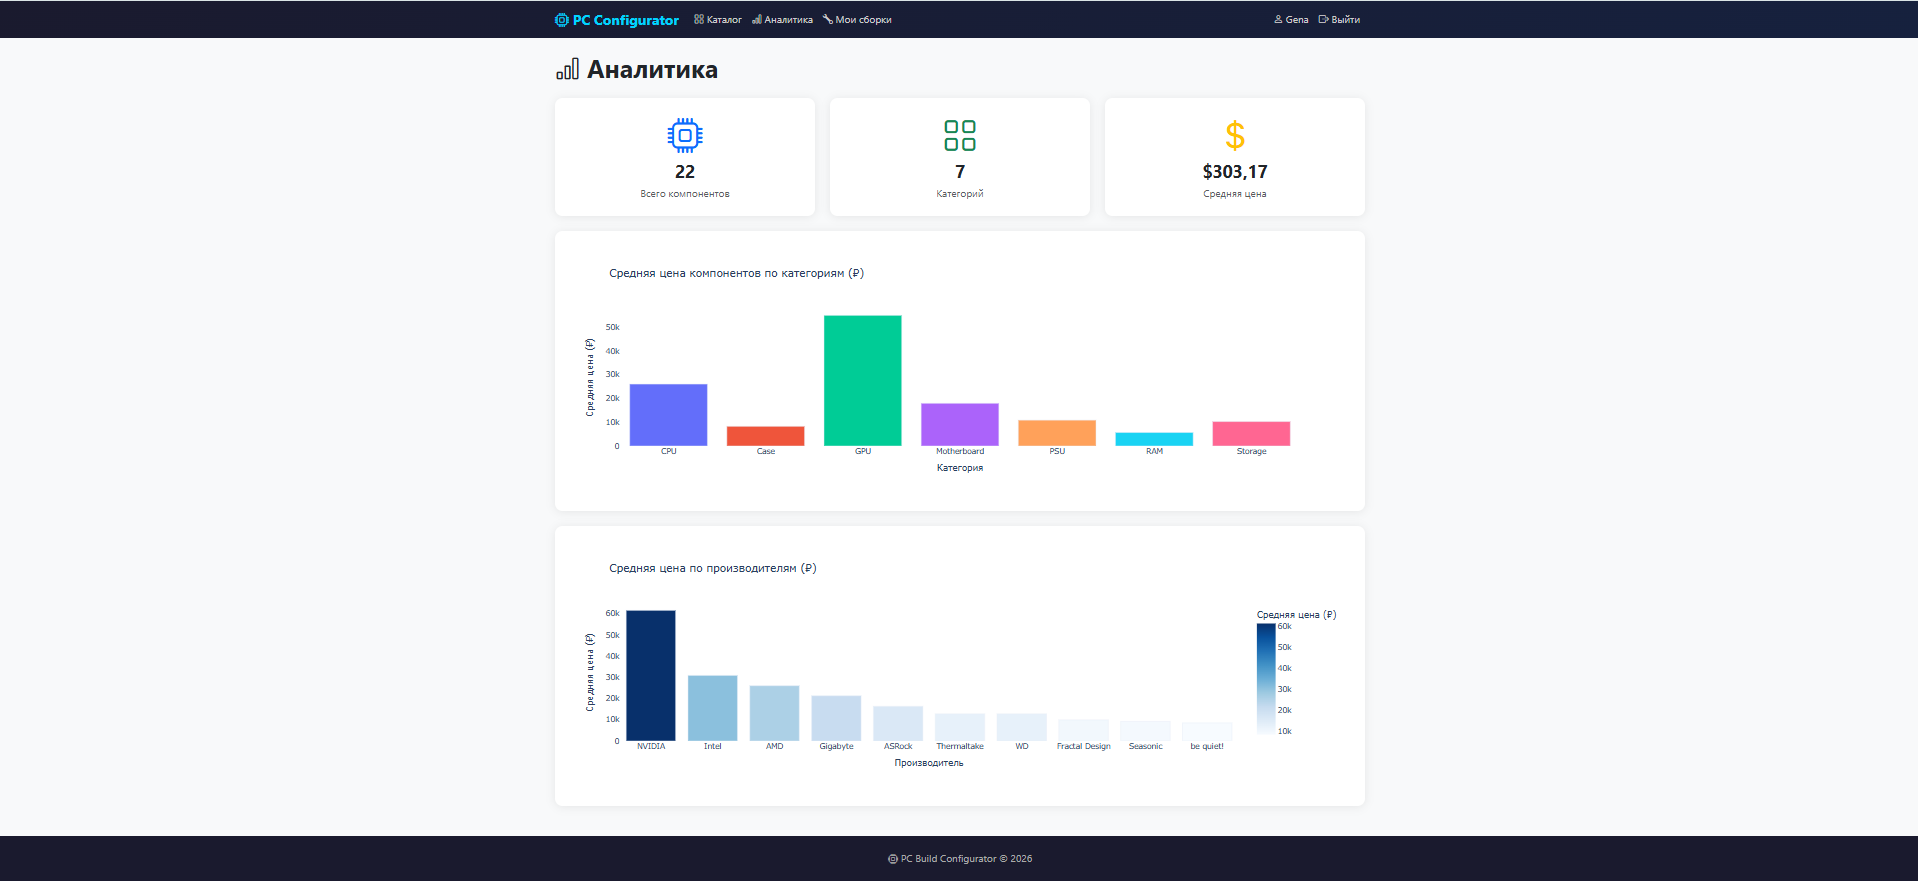
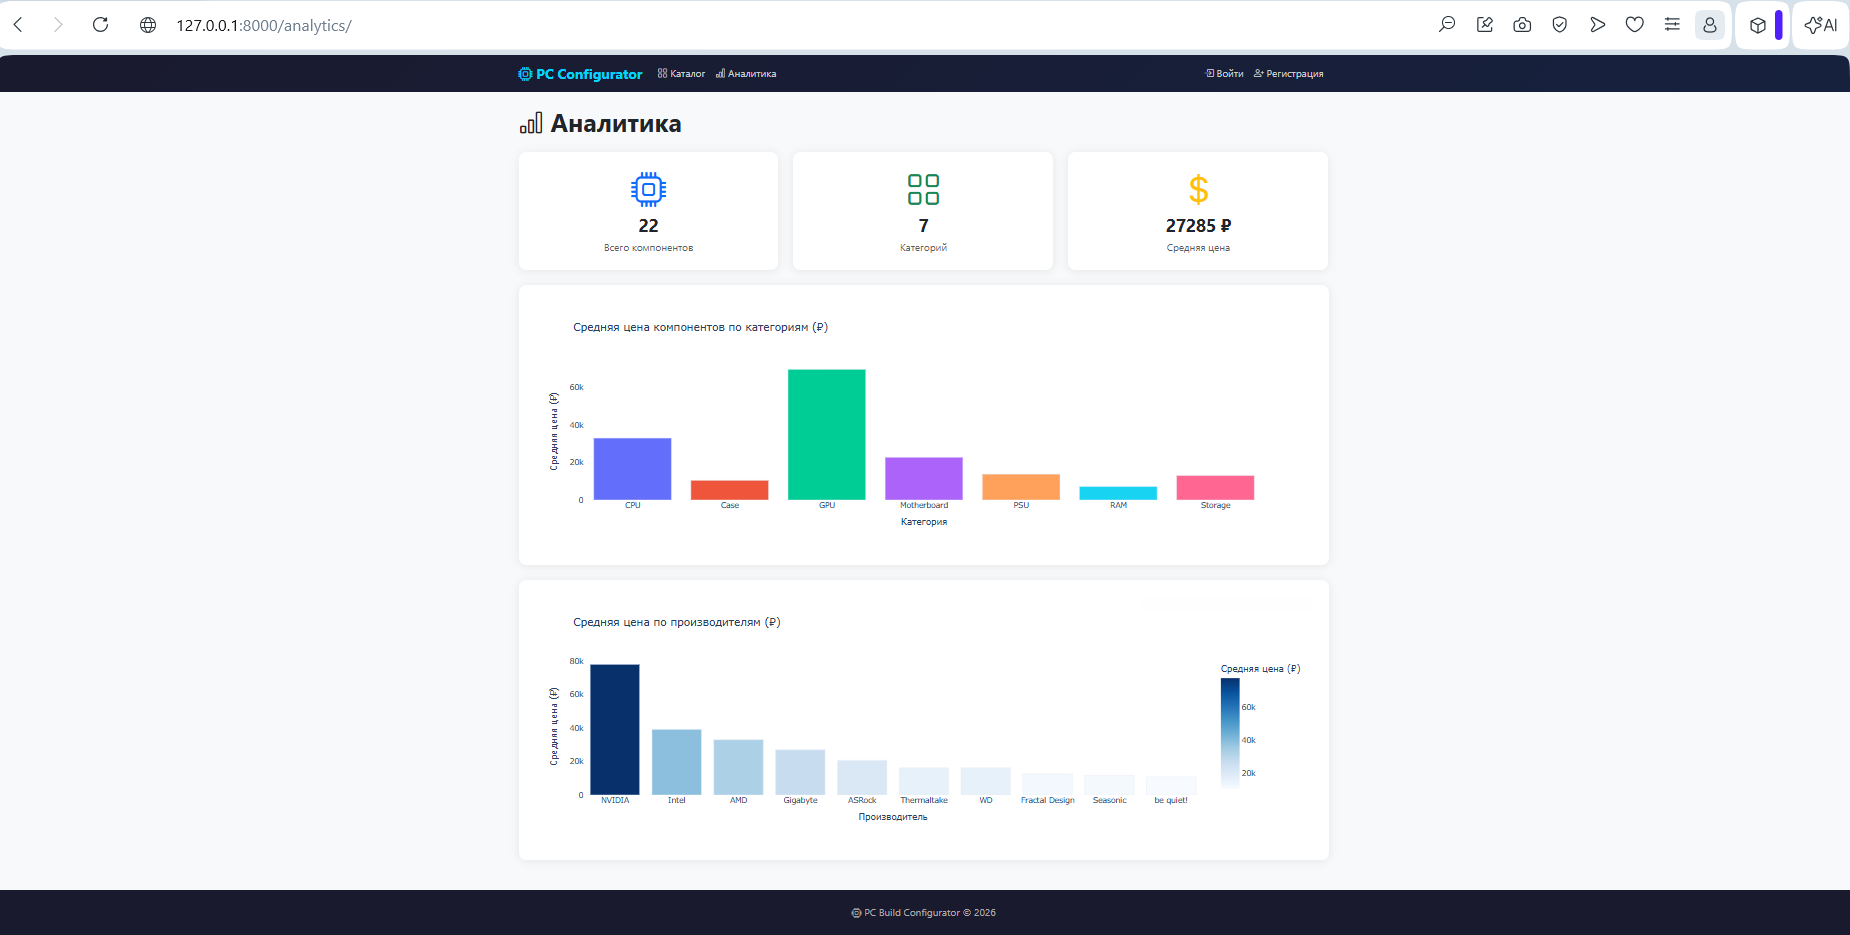
Fix price display to show RUB first on all pages

diff --git a/templates/configurator/component_detail.html b/templates/configurator/component_detail.html
@@ -30,8 +30,8 @@
                 <p class="text-muted">{{ component.description }}</p>
 
                 <div class="d-flex align-items-baseline gap-3 mb-3">
-                    <h3 class="text-primary fw-bold">${{ component.price_usd }}</h3>
-                    <span class="text-muted">≈ {{ price_rub }} ₽</span>
+                    <h3 class="text-primary fw-bold">{{ price_rub }} ₽</h3>
+                    <span class="text-muted">≈ ${{ component.price_usd }}</span>
                     <small class="text-muted">(курс: {{ rate }} ₽/$)</small>
                 </div>
 

diff --git a/templates/configurator/analytics.html b/templates/configurator/analytics.html
@@ -26,7 +26,7 @@
         <div class="col-md-4">
             <div class="card p-4 text-center">
                 <i class="bi bi-currency-dollar display-4 text-warning mb-2"></i>
-                <h3 class="fw-bold">${{ stats.avg_price|floatformat:2 }}</h3>
+                <h3 class="fw-bold">{% widthratio stats.avg_price 1 rate %} ₽</h3>
                 <p class="text-muted mb-0">Средняя цена</p>
             </div>
         </div>

diff --git a/configurator/views.py b/configurator/views.py
@@ -209,12 +209,14 @@ def analytics(request):
         total_components=Count('id'),
         avg_price=Avg('price_usd'),
     )
+    rate = get_usd_to_rub_rate()
 
     context = {
         'chart1_html': chart1_html,
         'chart2_html': chart2_html,
         'stats': stats,
         'categories_count': Category.objects.count(),
+        'rate': rate,
     }
     return render(request, 'configurator/analytics.html', context)
 

diff --git a/config/settings.py b/config/settings.py
@@ -5,7 +5,7 @@ BASE_DIR = Path(__file__).resolve().parent.parent
 
 SECRET_KEY = 'django-insecure-dev-key-change-in-production'
 
-DEBUG = False
+DEBUG = True
 
 ALLOWED_HOSTS = ['localhost', '127.0.0.1', 'tsterlyazhnikov.pythonanywhere.com']
 
